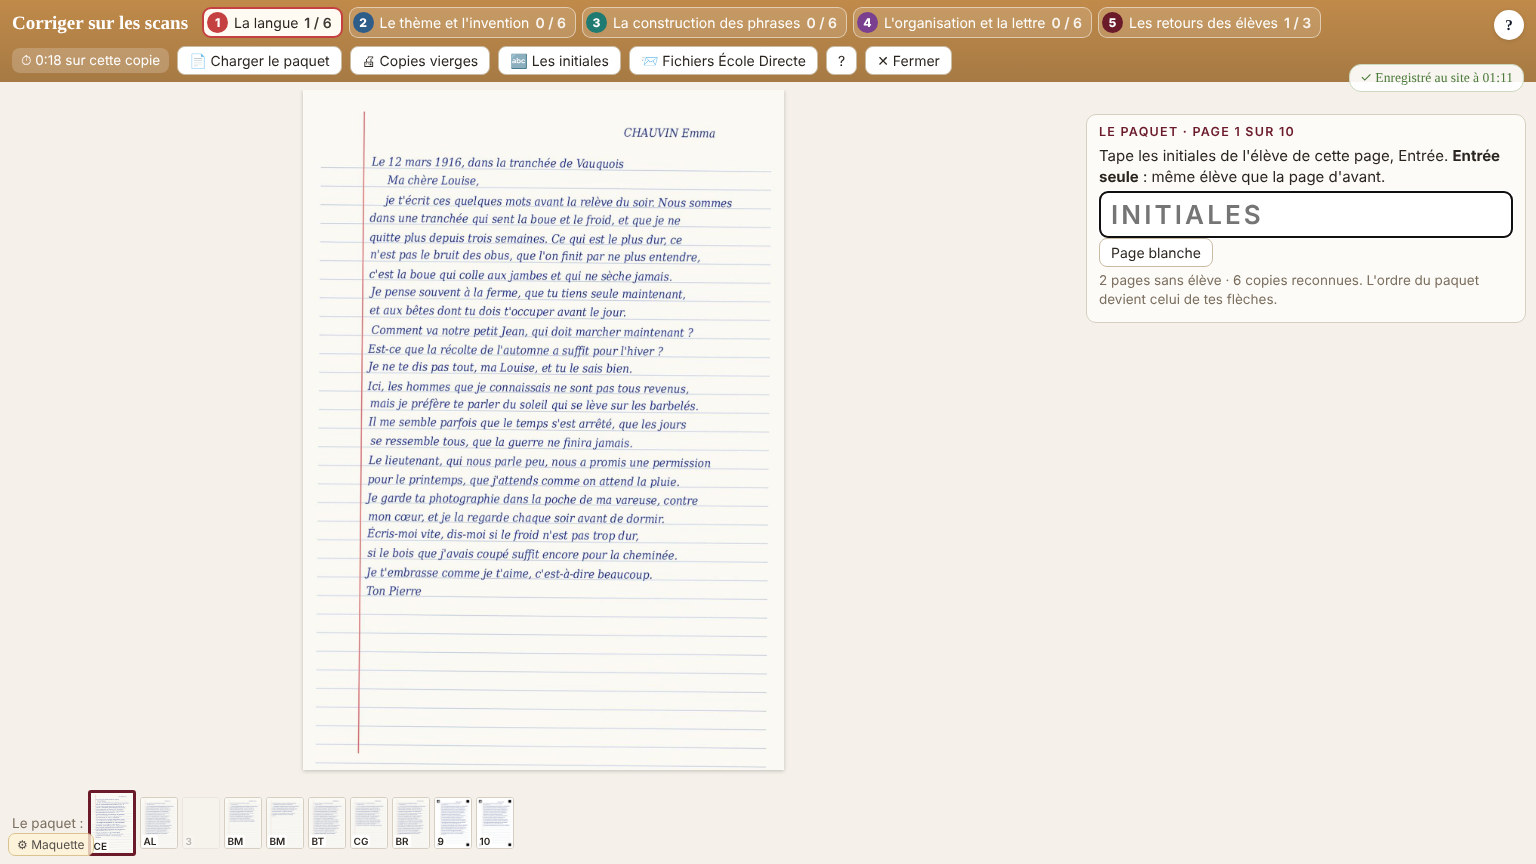
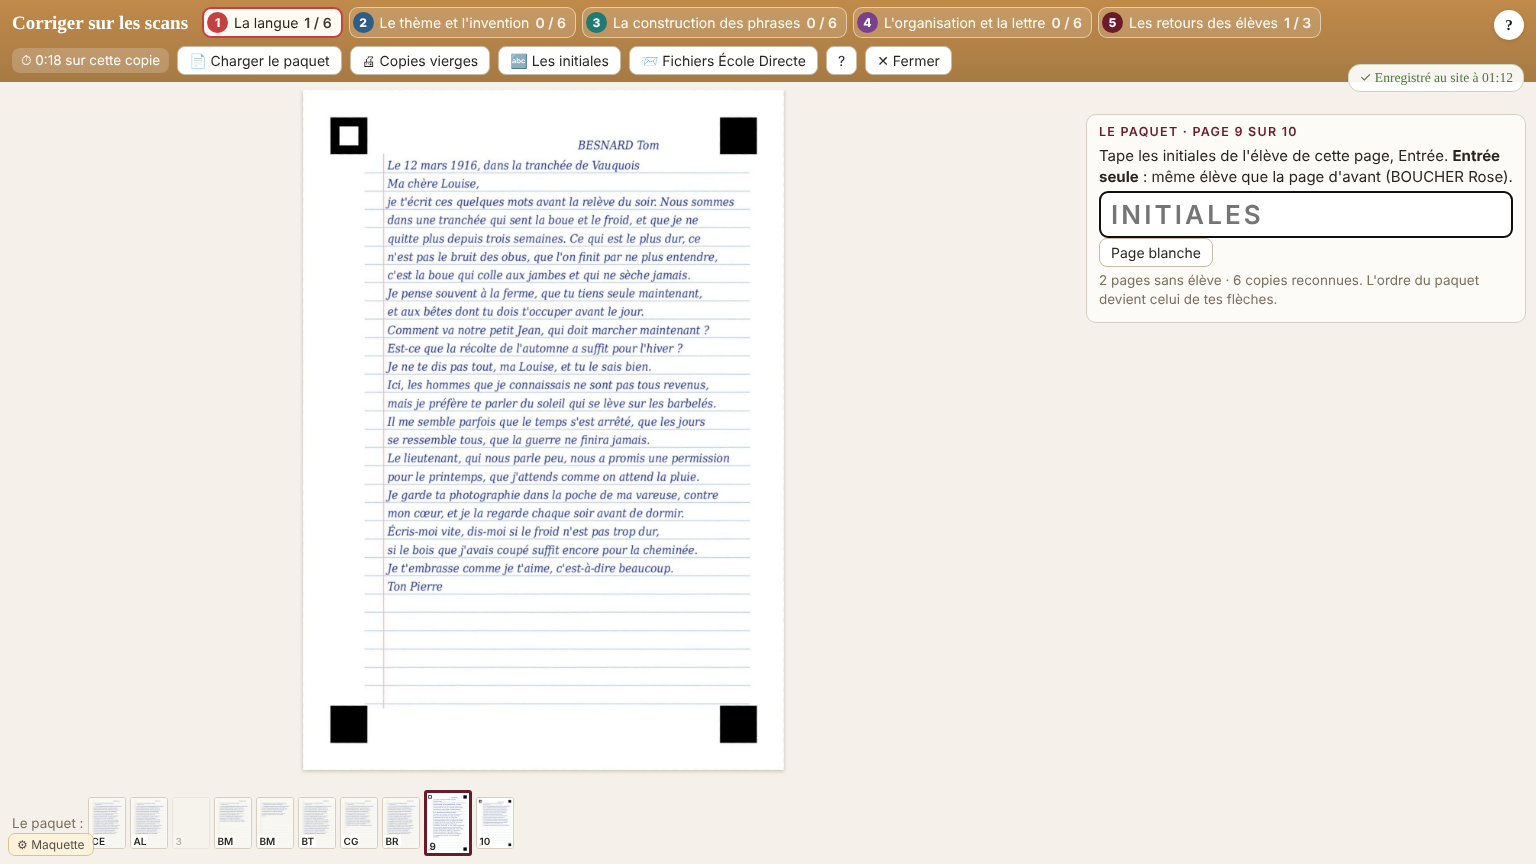
C13 tours 398-399 : maquette corriger sur les scans livrée (banc 21/0)
Claude-Session: https://claude.ai/code/session_01FmzsMHBMC1WuguNe8MTJi3

diff --git a/MANDATS/REDACTION-UNIVERSELLE/maquette/T399-maquette-redaction-scans-v1.html b/MANDATS/REDACTION-UNIVERSELLE/maquette/T399-maquette-redaction-scans-v1.html
@@ -6629,12 +6629,13 @@ function scOuvrir() {
     (loc || []).forEach(o => { if (o && o.blob) SC.imgs[o.id] = { url: URL.createObjectURL(o.blob), w: o.w, h: o.h, blob: o.blob }; });
     scCopiesOrdre(); SC.ouvert = true; SC.actif = Date.now();
     document.getElementById("scanEcran").classList.remove("hidden"); document.body.classList.add("sc-ouvert");
-    SC.attrib = scPagesSans().length > 0; SC.ia = 0;
+    SC.attrib = scPagesSans().length > 0; SC.ia = scPremiereSans();
     scRendre();
   });
 }
 function scFermer() { scChrono(); SC.ouvert = false; scChampFermer(true); document.getElementById("scanEcran").classList.add("hidden"); document.body.classList.remove("sc-ouvert"); saveState(); if (typeof renderDashboard === "function") renderDashboard(); }
 function scPagesOrdre() { return Object.values(SC.pages).filter(p => p && p.id).sort((a, b) => (a.ordre || 0) - (b.ordre || 0)); }
+function scPremiereSans() { const i = scPagesOrdre().findIndex(p => !p.eleve && !p.blanche); return i < 0 ? 0 : i; }
 function scPagesSans() { return scPagesOrdre().filter(p => !p.eleve && !p.blanche); }
 function scPagesDe(k) { return scPagesOrdre().filter(p => p.eleve === k && !p.blanche); }
 function scCopiesOrdre() { const vu = []; scPagesOrdre().forEach(p => { if (p.eleve && !p.blanche && vu.indexOf(p.eleve) < 0) vu.push(p.eleve); }); SC.copies = vu; if (SC.ic >= vu.length) SC.ic = Math.max(0, vu.length - 1); }
@@ -6652,7 +6653,7 @@ function scCharger(ev) {
     return scDbMettre({ id: o.id, red: RU.id, classe: RU.classe, blob: o.blob, w: o.w, h: o.h, le: new Date().toISOString() }); });
   let ch = Promise.resolve();
   fs.forEach(f => { ch = ch.then(() => /pdf$/i.test(f.type) || /\.pdf$/i.test(f.name) ? scLirePdf(f, traiter) : scLireImage(f).then(traiter)); });
-  ch.then(() => { scCopiesOrdre(); SC.attrib = scPagesSans().length > 0; SC.ia = 0; scTemoinCharge("");
+  ch.then(() => { scCopiesOrdre(); SC.attrib = scPagesSans().length > 0; SC.ia = scPremiereSans(); scTemoinCharge("");
     toast(n + " page" + (n > 1 ? "s" : "") + " lue" + (n > 1 ? "s" : "") + (nouvelles.length < n ? " · " + (n - nouvelles.length) + " déjà connue" + (n - nouvelles.length > 1 ? "s" : "") + " : leurs marques reviennent" : ""));
     scRendre(); }, e => { scTemoinCharge(""); toast("⚠ Ce fichier n'a pas pu être lu."); console.error(e); });
 }
@@ -6723,7 +6724,7 @@ function scCase(pt, k) {
     const n = scLignesCopie(k); if (!n) return null; const e = scFautes(k).length;
     const r = pt.calcul === "lignes" ? n / scLong() : e / n;
     const c = pt.cases.find(c => { const m = /^calc:\w+:([\d.]+)-([\d.]+)$/.exec(c.si); return m && r >= +m[1] && r <= +m[2]; });
-    return c ? { c, txt: c.fait.replace("{n}", n).replace("{e}", e), complet: !!s.vu && !!s.vu[scPasseDe(pt)] } : null;
+    return c ? { c, txt: c.fait.replace("{n}", n).replace("{e}", e).replace(/\b1 erreurs\b/, "1 erreur").replace(/\b1 lignes\b/, "1 ligne"), complet: !!s.vu && !!s.vu[scPasseDe(pt)] } : null;
   }
   const qs = scQuestions(pt, rep); const complet = qs.every(q => rep[q.id] === "o" || rep[q.id] === "n");
   const non = i => rep[i] === "n" && !scSautee(scQ(pt, i), rep), oui = i => rep[i] === "o" && !scSautee(scQ(pt, i), rep);
@@ -7123,11 +7124,11 @@ button{font:inherit;border:0;border-radius:8px;background:#6b1a2a;color:#fff;pad
     D.etoile.forEach(e => e.seg.forEach(r => pgs[e.page] && pgs[e.page].insertAdjacentHTML("beforeend", `<div class="mk" style="left:${pc(r[0])};top:${pc(r[1])};width:${pc(r[2] - r[0])};height:${pc(r[3] - r[1])};background:${D.coul.etoile}40"></div>`)));
     D.fautes.forEach(f => { const ok = fini({ t: "f", f, cle: f.id }); const c = cour && cour.t === "f" && cour.f === f; const P = pgs[f.page]; if (!P) return;
       P.insertAdjacentHTML("beforeend", `<div class="mk f${ok ? " ok" : ""}${c ? " cour" : ""}" style="left:${pc(f.x0)};top:${pc(f.y1)};width:${pc(f.x1 - f.x0)}"></div><div class="num${ok ? " ok" : ""}" style="left:${pc(f.x1)};top:${pc(f.y1)}">${ok ? "✓" : f.num}</div>`); });
-    D.points.forEach(p => { const P = pgs[p.place.page]; if (!P) return; const ouvert = E.findIndex(s => s.t === "p" && s.p === p) <= etape; const c = cour && cour.t === "p" && cour.p === p;
+    const pris = {}; D.points.forEach(p => { const P = pgs[p.place.page]; if (!P) return; const cle = p.place.page + ":" + Math.round(p.place.y * 40); const dx = (pris[cle] = (pris[cle] || 0) + 1) - 1; const ouvert = E.findIndex(s => s.t === "p" && s.p === p) <= etape; const c = cour && cour.t === "p" && cour.p === p;
       if (ouvert) p.marques.forEach(m => { const Q = pgs[m.page]; if (!Q) return; const k = D.coul[p.crit] || "#6b1a2a";
         if (m.forme === "surligne") m.seg.forEach(r => Q.insertAdjacentHTML("beforeend", `<div class="mk" style="left:${pc(r[0])};top:${pc(r[1])};width:${pc(r[2] - r[0])};height:${pc(r[3] - r[1])};background:${k}${c ? "55" : "30"}"></div>`));
         else Q.insertAdjacentHTML("beforeend", `<div class="mk ${m.forme === "marge" ? "g" : "e"}" style="left:${pc(m.x0)};top:${pc(m.y0)};width:${pc(m.x1 - m.x0)};height:${pc(m.y1 - m.y0)};${m.forme === "marge" ? "background:" + k : "border-color:" + k}"></div>`); });
-      P.insertAdjacentHTML("beforeend", `<div class="pin${c ? " cour" : ""}${ouvert && !c ? " fait" : ""}" style="top:${pc(Math.max(0.015, p.place.y))};${ouvert ? "background:" + D.bord[p.niveau] : ""}">${ouvert ? "" : "?"}</div>`);
+      P.insertAdjacentHTML("beforeend", `<div class="pin${c ? " cour" : ""}${ouvert && !c ? " fait" : ""}" style="top:${pc(Math.max(0.015, p.place.y))};margin-left:${dx * 30}px;${ouvert ? "background:" + D.bord[p.niveau] : ""}">${ouvert ? "" : "?"}</div>`);
       const r = R[p.id]; if (r && r.texte) P.insertAdjacentHTML("beforeend", `<div class="pap" style="top:${pc(Math.min(0.92, p.place.y + 0.01))}">${esc(r.texte)}</div>`); });
   }
   function panneau() {

diff --git a/MANDATS/REDACTION-UNIVERSELLE/maquette/scan.js b/MANDATS/REDACTION-UNIVERSELLE/maquette/scan.js
@@ -38,12 +38,13 @@ function scOuvrir() {
     (loc || []).forEach(o => { if (o && o.blob) SC.imgs[o.id] = { url: URL.createObjectURL(o.blob), w: o.w, h: o.h, blob: o.blob }; });
     scCopiesOrdre(); SC.ouvert = true; SC.actif = Date.now();
     document.getElementById("scanEcran").classList.remove("hidden"); document.body.classList.add("sc-ouvert");
-    SC.attrib = scPagesSans().length > 0; SC.ia = 0;
+    SC.attrib = scPagesSans().length > 0; SC.ia = scPremiereSans();
     scRendre();
   });
 }
 function scFermer() { scChrono(); SC.ouvert = false; scChampFermer(true); document.getElementById("scanEcran").classList.add("hidden"); document.body.classList.remove("sc-ouvert"); saveState(); if (typeof renderDashboard === "function") renderDashboard(); }
 function scPagesOrdre() { return Object.values(SC.pages).filter(p => p && p.id).sort((a, b) => (a.ordre || 0) - (b.ordre || 0)); }
+function scPremiereSans() { const i = scPagesOrdre().findIndex(p => !p.eleve && !p.blanche); return i < 0 ? 0 : i; }
 function scPagesSans() { return scPagesOrdre().filter(p => !p.eleve && !p.blanche); }
 function scPagesDe(k) { return scPagesOrdre().filter(p => p.eleve === k && !p.blanche); }
 function scCopiesOrdre() { const vu = []; scPagesOrdre().forEach(p => { if (p.eleve && !p.blanche && vu.indexOf(p.eleve) < 0) vu.push(p.eleve); }); SC.copies = vu; if (SC.ic >= vu.length) SC.ic = Math.max(0, vu.length - 1); }
@@ -61,7 +62,7 @@ function scCharger(ev) {
     return scDbMettre({ id: o.id, red: RU.id, classe: RU.classe, blob: o.blob, w: o.w, h: o.h, le: new Date().toISOString() }); });
   let ch = Promise.resolve();
   fs.forEach(f => { ch = ch.then(() => /pdf$/i.test(f.type) || /\.pdf$/i.test(f.name) ? scLirePdf(f, traiter) : scLireImage(f).then(traiter)); });
-  ch.then(() => { scCopiesOrdre(); SC.attrib = scPagesSans().length > 0; SC.ia = 0; scTemoinCharge("");
+  ch.then(() => { scCopiesOrdre(); SC.attrib = scPagesSans().length > 0; SC.ia = scPremiereSans(); scTemoinCharge("");
     toast(n + " page" + (n > 1 ? "s" : "") + " lue" + (n > 1 ? "s" : "") + (nouvelles.length < n ? " · " + (n - nouvelles.length) + " déjà connue" + (n - nouvelles.length > 1 ? "s" : "") + " : leurs marques reviennent" : ""));
     scRendre(); }, e => { scTemoinCharge(""); toast("⚠ Ce fichier n'a pas pu être lu."); console.error(e); });
 }
@@ -132,7 +133,7 @@ function scCase(pt, k) {
     const n = scLignesCopie(k); if (!n) return null; const e = scFautes(k).length;
     const r = pt.calcul === "lignes" ? n / scLong() : e / n;
     const c = pt.cases.find(c => { const m = /^calc:\w+:([\d.]+)-([\d.]+)$/.exec(c.si); return m && r >= +m[1] && r <= +m[2]; });
-    return c ? { c, txt: c.fait.replace("{n}", n).replace("{e}", e), complet: !!s.vu && !!s.vu[scPasseDe(pt)] } : null;
+    return c ? { c, txt: c.fait.replace("{n}", n).replace("{e}", e).replace(/\b1 erreurs\b/, "1 erreur").replace(/\b1 lignes\b/, "1 ligne"), complet: !!s.vu && !!s.vu[scPasseDe(pt)] } : null;
   }
   const qs = scQuestions(pt, rep); const complet = qs.every(q => rep[q.id] === "o" || rep[q.id] === "n");
   const non = i => rep[i] === "n" && !scSautee(scQ(pt, i), rep), oui = i => rep[i] === "o" && !scSautee(scQ(pt, i), rep);

diff --git a/MANDATS/REDACTION-UNIVERSELLE/maquette/eleve.js b/MANDATS/REDACTION-UNIVERSELLE/maquette/eleve.js
@@ -81,11 +81,11 @@ button{font:inherit;border:0;border-radius:8px;background:#6b1a2a;color:#fff;pad
     D.etoile.forEach(e => e.seg.forEach(r => pgs[e.page] && pgs[e.page].insertAdjacentHTML("beforeend", `<div class="mk" style="left:${pc(r[0])};top:${pc(r[1])};width:${pc(r[2] - r[0])};height:${pc(r[3] - r[1])};background:${D.coul.etoile}40"></div>`)));
     D.fautes.forEach(f => { const ok = fini({ t: "f", f, cle: f.id }); const c = cour && cour.t === "f" && cour.f === f; const P = pgs[f.page]; if (!P) return;
       P.insertAdjacentHTML("beforeend", `<div class="mk f${ok ? " ok" : ""}${c ? " cour" : ""}" style="left:${pc(f.x0)};top:${pc(f.y1)};width:${pc(f.x1 - f.x0)}"></div><div class="num${ok ? " ok" : ""}" style="left:${pc(f.x1)};top:${pc(f.y1)}">${ok ? "✓" : f.num}</div>`); });
-    D.points.forEach(p => { const P = pgs[p.place.page]; if (!P) return; const ouvert = E.findIndex(s => s.t === "p" && s.p === p) <= etape; const c = cour && cour.t === "p" && cour.p === p;
+    const pris = {}; D.points.forEach(p => { const P = pgs[p.place.page]; if (!P) return; const cle = p.place.page + ":" + Math.round(p.place.y * 40); const dx = (pris[cle] = (pris[cle] || 0) + 1) - 1; const ouvert = E.findIndex(s => s.t === "p" && s.p === p) <= etape; const c = cour && cour.t === "p" && cour.p === p;
       if (ouvert) p.marques.forEach(m => { const Q = pgs[m.page]; if (!Q) return; const k = D.coul[p.crit] || "#6b1a2a";
         if (m.forme === "surligne") m.seg.forEach(r => Q.insertAdjacentHTML("beforeend", `<div class="mk" style="left:${pc(r[0])};top:${pc(r[1])};width:${pc(r[2] - r[0])};height:${pc(r[3] - r[1])};background:${k}${c ? "55" : "30"}"></div>`));
         else Q.insertAdjacentHTML("beforeend", `<div class="mk ${m.forme === "marge" ? "g" : "e"}" style="left:${pc(m.x0)};top:${pc(m.y0)};width:${pc(m.x1 - m.x0)};height:${pc(m.y1 - m.y0)};${m.forme === "marge" ? "background:" + k : "border-color:" + k}"></div>`); });
-      P.insertAdjacentHTML("beforeend", `<div class="pin${c ? " cour" : ""}${ouvert && !c ? " fait" : ""}" style="top:${pc(Math.max(0.015, p.place.y))};${ouvert ? "background:" + D.bord[p.niveau] : ""}">${ouvert ? "" : "?"}</div>`);
+      P.insertAdjacentHTML("beforeend", `<div class="pin${c ? " cour" : ""}${ouvert && !c ? " fait" : ""}" style="top:${pc(Math.max(0.015, p.place.y))};margin-left:${dx * 30}px;${ouvert ? "background:" + D.bord[p.niveau] : ""}">${ouvert ? "" : "?"}</div>`);
       const r = R[p.id]; if (r && r.texte) P.insertAdjacentHTML("beforeend", `<div class="pap" style="top:${pc(Math.min(0.92, p.place.y + 0.01))}">${esc(r.texte)}</div>`); });
   }
   function panneau() {

diff --git a/TRANSCRIPTS/C13/TRANSCRIPT-C13.md b/TRANSCRIPTS/C13/TRANSCRIPT-C13.md
@@ -8888,3 +8888,71 @@ Sources : [forum développeurs Apple, JavaScript coupé dans les pièces jointes
 
 30/10/2026 00:31
 MEMO
+
+## Tour 398 — 30/10/2026 00:39 → (réponse interrompue)
+
+**Paul :** 1343. Non je ne classe jamais le paquet. Je peux éventuellement poser les initiales élève sur chaque copie numérisée et ça fait le paquet dans l'ordre où il est physiquement. Pour le scan et les lignes: parfois celles ci disparaissent avec un contraste un peu fort etc. En revanche avec copies à repères de coin et lignes déjà préétablies ( en gros mes copies vierges  imprimées depuis l'App ) là je pense que ça ne pose pas de souci.1344. les marques survivent à n'importe quel rechargement, d'où l'importance de leur id interne, de leur placement non par rang mais par id aussi.  Pour ce qui est du Pdf, tout se passe sur le navigateur, même si je change d'ordinateur les calques et les marques reviennent aussitôt que je remets mon gros pdf scan dans l'App. 
+Et chaque navigateur se souvient de ça ( que je n'ai pas besoin de réinjecter le paquet de scans en permanence). Ce paquet est sur clef usb. La photo de la copie élève n'est jamais au hub..
+
+**Fait.** Fichier d'essai École Directe (1347) écrit : `MANDATS/REDACTION-UNIVERSELLE/ecoledirecte/essai-ecoledirecte.html` ; mesuré dans Chromium : sans JavaScript, il dit « ✗ » ; avec, « ✓ » et le hub répond en lecture depuis un fichier local. Ma réponse n'est pas partie : Paul a interrompu.
+
+## Tour 399 — 30/10/2026 00:41 → 01:14
+
+**Paul :** Je me couche, tu es capable de me faire une maquette avec tout ce qu'on a cadré. Je répète : une maquette avec tout ce quon a cadré. J'en prends livraison demain à 8h. Tu ne t'arrêtes pas tant que tout n'est pas tel que je l'ai cadré. 
+10 pourcent restants : tu t'arrêtes à 97 pourcents.
+
+**Fait.** Protocole maquette appliqué : le fichier de production `redaction.html` servi sur un faux hub (GET de `/redactions/sujet_mvtd85g7_ycxjq3/config` et `validations`, `/classes/3_franklin_aretha` anonymisée, `/taxonomie`), la nouveauté écrite dedans. Sas `MANDATS/REDACTION-UNIVERSELLE/maquette/` : `T399-maquette-redaction-scans-v1.html` (md5 adf1e959507d, 614 886 octets), `gen-maquette.py`, `scan.js`, `eleve.js`, `scan.css`, `grille2.py` → `grille2.json` (la grille de la lettre de `gen3.py`, conditions des cases, sauts, formes des marques), `paquet-essai.py` → `paquet-essai.pdf` (md5 bda162255842), `paquet-reperes.py` → `paquet-reperes.pdf` (md5 4a684db62d0e), `banc/banc.mjs` (21 vérifications, 0 défaut), captures `banc/captures/01…12` regardées (02, 04, 06, 08, 09, 11, 12). Prod : `docs/MJPC6-OU-TROUVER-QUOI.md` et `docs/MJPC6-journal.md` (commit 2075276). Je ne vois pas ton compteur d'usage : j'ai travaillé au plus court.
+
+**Claude :** [fichiers : T399-maquette-redaction-scans-v1.html, paquet-essai.pdf, paquet-reperes.pdf, essai-ecoledirecte.html]
+
+À jouer : la maquette, geste par geste (1350 à 1359) · en cours : rien · ouvert : 1366 ; 1277 ; 1254 ; 1212 ; 1126 ; 1026 ; 1008 ; 1001 ; 979 à 988 ; 905 à 917.
+
+1349. La maquette est prête. C'est redaction.html de production, sur un faux hub (la vraie base, élèves aux noms inventés), avec la correction sur les scans écrite dedans, là où elle vivra. Banc par le geste : 21 vérifications, 0 défaut. Fichier : T399-maquette-redaction-scans-v1.html, joint ici et au sas (MANDATS/REDACTION-UNIVERSELLE/maquette/).
+
+1350. Ouvrir : double-clic sur le fichier, « Mes rédactions », la lettre de la Grande Guerre, puis au tableau des élèves « 📄 Corriger sur les scans ».
+
+1351. Le paquet : « Charger le paquet », puis paquet-essai.pdf (inventé : 8 pages, une page blanche glissée dedans), ou ton propre PDF, ou tes photos. Il reste dans le navigateur : recharge la page, il est encore là.
+
+1352. Les initiales, page par page dans l'ordre du paquet : CE Entrée, LA Entrée… La page blanche est sautée seule. Sur la deuxième page d'une copie, Entrée seule. Deux élèves aux mêmes initiales : tape son chiffre.
+
+1353. Passe 1, la langue. Pointeur en croix rouge : appuie, glisse sous le mot, lâche, c'est souligné. Tape la bonne forme, Entrée ; sur une autre copie, son numéro suffit. ★ : la phrase qui t'a touché, surlignée en doré. Entrée sur la copie : les fautes sont finies, viennent les trois questions du lexique (Entrée ou N), puis la copie suivante arrive à la place.
+
+1354. Passes 2 à 4, un critère à la fois. Entrée oui, N non. La forme du pinceau vient de la question : encadré pour un mot, surligné pour une citation, trait dans la marge pour un paragraphe. Une marque qui répond « non » répond pour toi. La case se calcule ; en dessous, les copies déjà vues sur ce point. Les flèches → ← font défiler les copies.
+
+1355. Retoucher : un clic sur une marque fait paraître ses poignées, tu les tires ; Suppr l'efface ; Ctrl+Z annule.
+
+1356. Recharge la page : tout revient, marques comprises, par leur identité.
+
+1357. « 📨 Fichiers École Directe » : un fichier par élève, sa photo dedans. « Voir comme l'élève » : la traversée, puis ses fautes à corriger, puis les points, ses papillons, et la note à la fin quand toute sa copie est corrigée.
+
+1358. Passe 5, les retours : ce que l'élève a écrit, à côté de son passage. Entrée, c'est bon ; N, à refaire.
+
+1359. « 🖨 Copies vierges » : la copie de l'appli à imprimer, repères aux coins et 30 lignes. paquet-reperes.pdf : deux copies écrites dessus et scannées de travers. L'appli les remet droites et sait d'avance où sont les lignes : 24 et 17 lignes écrites trouvées, sur 24 et 17.
+
+1360. Ce qu'elle n'a pas, un : la question à l'élève avant la case. La grille de la lettre ne l'a pas encore, donc le point s'ouvre directement sur la case. C'est à faire écrire par l'IA d'injection.
+
+1361. Deux : la grille ne dit pas encore quelles tâches tu dois relire (1295). Toutes arrivent donc dans tes retours. La phrase toute prête de « à refaire » (1294) n'est pas donnée non plus : l'élève voit « à refaire » et sa tâche.
+
+1362. Trois : les cases comptées par les marques (1304). La grille de la lettre a été écrite avant cette règle : ses cases comptent les « non », pas les marques.
+
+1363. Ce qui est simulé : le site, par un faux hub gardé dans ton navigateur (« ⚙ Maquette » pour tout remettre à zéro). Un fichier élève téléchargé depuis la maquette n'envoie rien au site. Pour l'iPhone, je ne sais toujours pas : essai-ecoledirecte.html, joint, le dira une fois déposé sur École Directe et ouvert sur un téléphone.
+
+1364. Les mots que j'ai dû mettre côté élève, à toi de les donner ou de les changer : « Vérifier », « Envoyer », « Suivant », « Ta note », « à refaire ». Et deux retouches de tes phrases de la traversée : « soulignées en rouge » au lieu d'« entourées », puisque les fautes sont soulignées (1337), et les noms des critères de cette grille au lieu de « le sujet et le récit ».
+
+1365. Défauts trouvés au banc et corrigés. Un, le plus grave : une copie sans élève écrivait par-dessus toute la classe ; au vrai site, elle aurait effacé les copies. C'est verrouillé et vérifié au banc. Deux : Entrée après une marque « non » la changeait en « oui ». Trois : un point pas encore corrigé partait chez l'élève à pleine note ; seuls les points que tu as passés partent. Quatre : chez l'élève, les fautes se dessinaient deux fois.
+
+1366. Oui à 1349 à 1365 ?
+
+À tester :
+1. Ouvrir la maquette, aller jusqu'à « Corriger sur les scans » (1350).
+2. Charger paquet-essai.pdf, donner les initiales (1352).
+3. Passe 1 sur deux copies, avec un numéro de forme sur la deuxième (1353).
+4. Passe 2 sur une copie : Entrée, N, une marque, la case (1354).
+5. Recharger la page : les marques reviennent (1356).
+6. « Voir comme l'élève » : corriger une faute, écrire un papillon (1357).
+7. Passe 5 : Entrée ou N sur ce retour (1358).
+8. Charger paquet-reperes.pdf : les copies se remettent droites (1359).
+9. Si tu veux : ton propre PDF de la lettre (1277).
+
+30/10/2026 01:14
+MEMO
